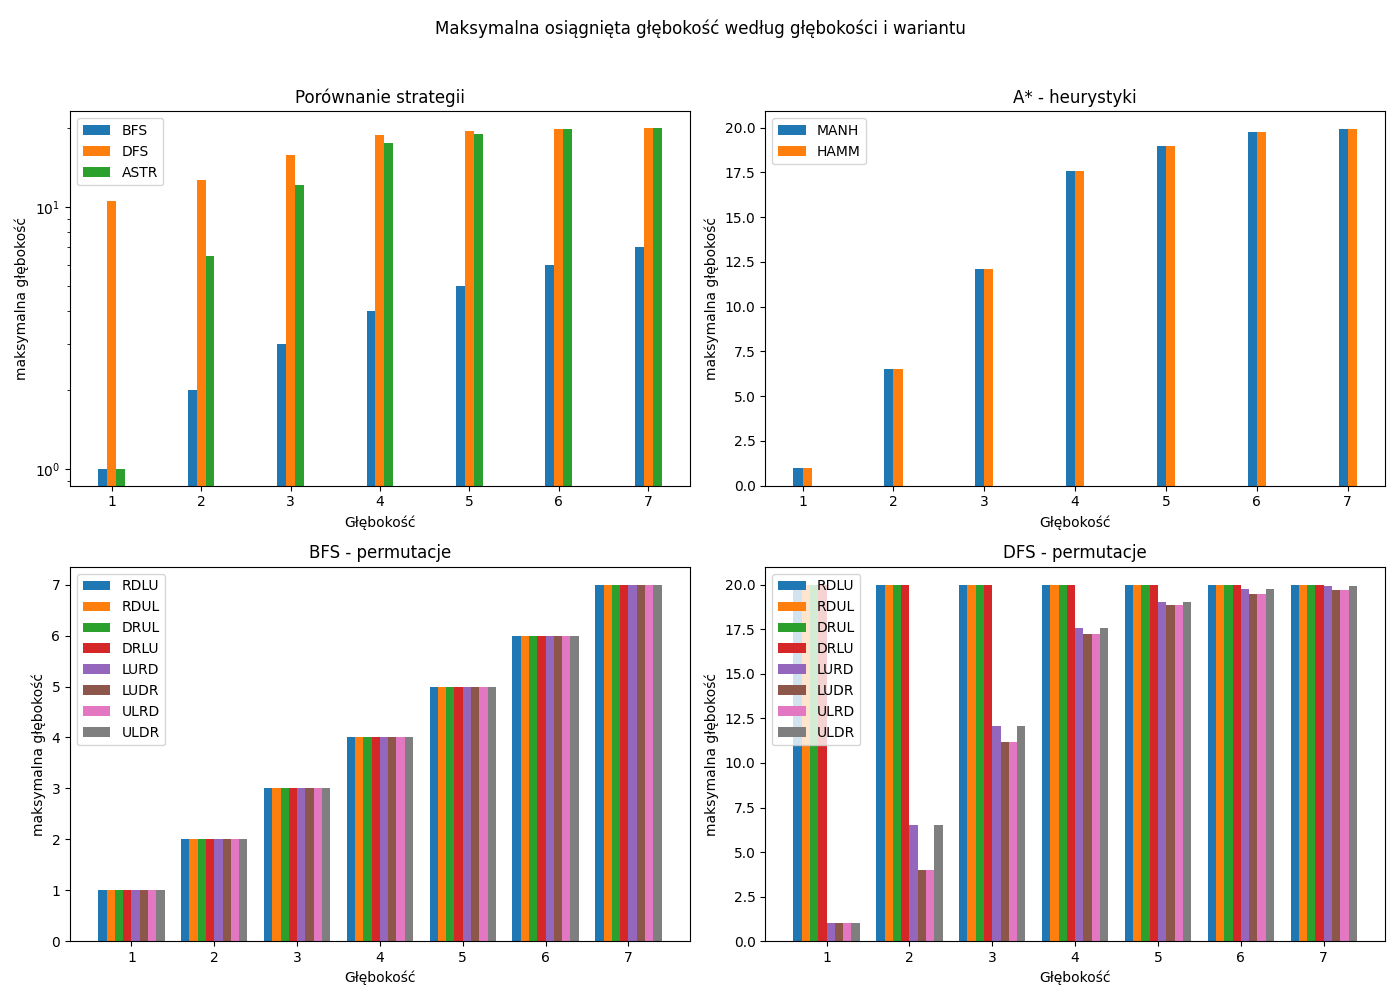
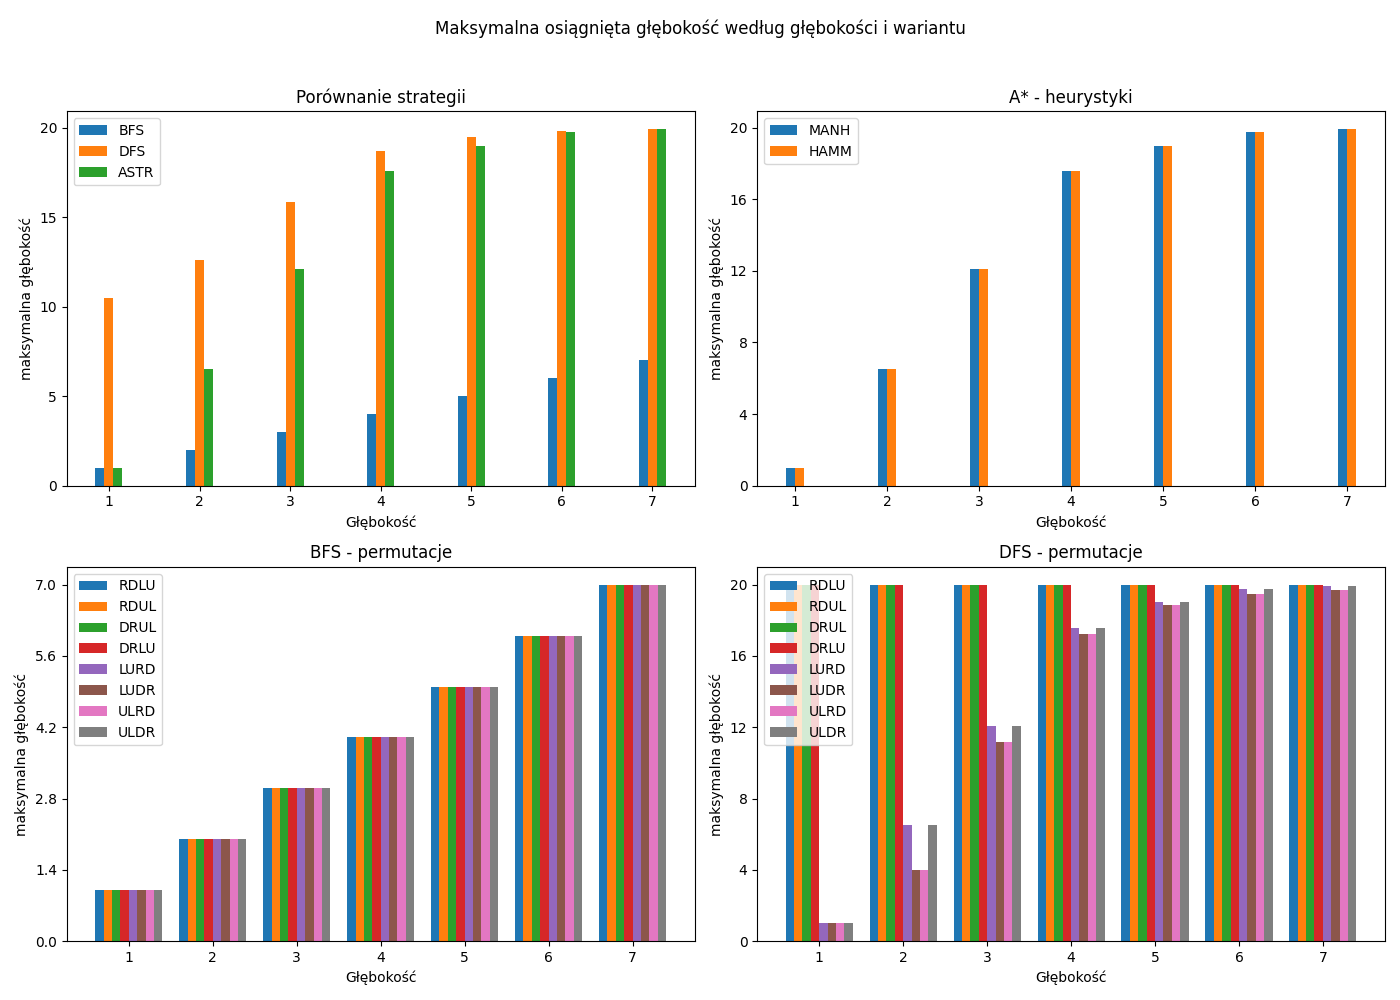
astar jeszcze nie działa

diff --git a/aStar.py b/aStar.py
@@ -24,10 +24,21 @@ def manhattan(board, goal, r, c):
                 dist += abs(i - goal_x) + abs(j - goal_y)
     return dist
 
+def choices(state, r, c):
+    newStates = []
+    for d in "LURD":
+        moving = state.move(d, r, c)
+        if moving is not None:
+            newStates.append(moving)
+    return newStates
+
 
 def solveAStar(startBoard, heuristic, node, info, r, c):
     startTime = time.time()
     goal = node.goal(r, c)
+    info.setMaxDepthRecursion(0)
+    visitedStates = set()
+    processedStates = 0
 
     if heuristic == "manh":
         heuristicFunc = manhattan
@@ -37,29 +48,65 @@ def solveAStar(startBoard, heuristic, node, info, r, c):
         raise ValueError("Invalid heuristic")
 
     queue = []
-    heapq.heappush(queue, (0, 0, "", node))  # (f(n), g(n), moves, state)
-
-    visitedStates = set()
-    processedStates = 0
+    heapq.heappush(queue, (0 + heuristicFunc(startBoard, goal, r, c), 0, startBoard, ""))
 
     while queue:
-        _, cost, path, board = heapq.heappop(queue)
+        f, cost, current, path = heapq.heappop(queue)
         processedStates += 1
 
-        if board.getBoard() == goal:
+        if len(current.getMoves()) > info.getMaxDepthRecursion():
+            info.setMaxDepthRecursion(len(current.getMoves()))
+
+        if current == goal:
             time1 = round((time.time() - startTime) * 1000, 3)
-            node.theEnd(len(visitedStates), processedStates, time1, len(board.getMoves()), info)
-            return board.getPath()
+            node.theEnd(current, len(visitedStates), processedStates, time1, len(current.getMoves()), info)
+            return current.getPath()
 
+        if tuple(current) in visitedStates:
+            continue
+        visitedStates.add(tuple(current))
 
-        for d in "LURD":
-            newNode = board.move(d, r, c)
-            if newNode is not None and tuple(map(tuple, newNode.getBoard())) not in visitedStates:
-                visitedStates.add(tuple(map(tuple, newNode.getBoard())))
-                newCost = cost + 1
-                hValue = heuristicFunc(newNode.getBoard(), goal, len(startBoard), len(startBoard[0]))
-                heapq.heappush(queue, (newCost + hValue, newCost, path + d, newNode))
+        for choice in choices(current, r, c):
+            if tuple(choice) not in visitedStates and tuple(choice) is not None:
+                heapq.heappush(queue, (cost + 1 + heuristicFunc(choice, goal, r, c), cost, choice, node.getPath() + "L"))
 
-    time1 = round((time.time() - startTime) * 1000, 3)
-    node.theEnd(startBoard, len(visitedStates), processedStates, time1, -1, info)
-    return "Nie znaleziono rozwiązania"
+    return None
+
+# def solveAStar(startBoard, heuristic, node, info, r, c):
+#     startTime = time.time()
+#     goal = node.goal(r, c)
+#
+#     if heuristic == "manh":
+#         heuristicFunc = manhattan
+#     elif heuristic == "hamm":
+#         heuristicFunc = hamming
+#     else:
+#         raise ValueError("Invalid heuristic")
+#
+#     queue = []
+#     heapq.heappush(queue, (0, 0, "", node))  # (f(n), g(n), moves, state)
+#
+#     visitedStates = set()
+#     processedStates = 0
+#
+#     while queue:
+#         _, cost, path, board = heapq.heappop(queue)
+#         processedStates += 1
+#
+#         if board.getBoard() == goal:
+#             time1 = round((time.time() - startTime) * 1000, 3)
+#             node.theEnd(len(visitedStates), processedStates, time1, len(board.getMoves()), info)
+#             return board.getPath()
+#
+#
+#         for d in "LURD":
+#             newNode = board.move(d, r, c)
+#             if newNode is not None and tuple(map(tuple, newNode.getBoard())) not in visitedStates:
+#                 visitedStates.add(tuple(map(tuple, newNode.getBoard())))
+#                 newCost = cost + 1
+#                 hValue = heuristicFunc(newNode.getBoard(), goal, len(startBoard), len(startBoard[0]))
+#                 heapq.heappush(queue, (newCost + hValue, newCost, path + d, newNode))
+#
+#     time1 = round((time.time() - startTime) * 1000, 3)
+#     node.theEnd(startBoard, len(visitedStates), processedStates, time1, -1, info)
+#     return "Nie znaleziono rozwiązania"

diff --git a/pliki.py b/pliki.py
@@ -32,40 +32,40 @@ def writeSolution(filename, moves):
         else:
             f.write(f"{len(moves)}\n{moves}\n")
 
-if len(sys.argv) != 6:
-    print("Użycie: program <strategia> <parametr> <plik_wejściowy> <plik_rozwiązania> <plik_statystyk>")
-    sys.exit(1)
-
-strategy = sys.argv[1]
-param = sys.argv[2]
-inputFile = sys.argv[3]
-solutionFile = sys.argv[4]
-statsFile = sys.argv[5]
-
-board, rows, cols = loadBoard(inputFile)
-startNode = n.node(board, "")
-info = i.info()
-
-if strategy == "bfs":
-    path = b.breadth_first_search(startNode, param, info, rows, cols)
-elif strategy == "dfs":
-    paht = d.depth_first_search(startNode, param, 20, info, rows, cols)
-elif strategy == "astr":
-    path = a.solveAStar(board, param, startNode, info, rows, cols)
-else:
-    print("Nieznana strategia:", strategy)
-    sys.exit(1)
-
-
-solutionLength = len(path)
-visited = info.getVisitedStates()
-processed = info.getProcessedStates()
-depth = info.getMaxDepthRecursion()
-time = info.getSearchingTime()
-
-writeSolution(solutionFile, path if path else -1)
-solutionLength = len(path) if path else -1
-writeStats(statsFile, solutionLength, visited, processed, depth, time)
+# if len(sys.argv) != 6:
+#     print("Użycie: program <strategia> <parametr> <plik_wejściowy> <plik_rozwiązania> <plik_statystyk>")
+#     sys.exit(1)
+#
+# strategy = sys.argv[1]
+# param = sys.argv[2]
+# inputFile = sys.argv[3]
+# solutionFile = sys.argv[4]
+# statsFile = sys.argv[5]
+#
+# board, rows, cols = loadBoard(inputFile)
+# startNode = n.node(board, "")
+# info = i.info()
+#
+# if strategy == "bfs":
+#     path = b.breadth_first_search(startNode, param, info, rows, cols)
+# elif strategy == "dfs":
+#     paht = d.depth_first_search(startNode, param, 20, info, rows, cols)
+# elif strategy == "astr":
+#     path = a.solveAStar(board, param, startNode, info, rows, cols)
+# else:
+#     print("Nieznana strategia:", strategy)
+#     sys.exit(1)
+#
+#
+# solutionLength = len(path)
+# visited = info.getVisitedStates()
+# processed = info.getProcessedStates()
+# depth = info.getMaxDepthRecursion()
+# time = info.getSearchingTime()
+#
+# writeSolution(solutionFile, path if path else -1)
+# solutionLength = len(path) if path else -1
+# writeStats(statsFile, solutionLength, visited, processed, depth, time)
 
 
 

diff --git a/wykresy.py b/wykresy.py
@@ -12,7 +12,7 @@ def plot_grouped_bars(grouped_data, metric_name, title, ylabel, filename):
 
     for i, (data_dict, variants, plot_title, subplot_idx) in enumerate(grouped_data):
         ax = axs[subplot_idx[0]][subplot_idx[1]]
-
+        values = 0
         depths = sorted(data_dict.keys())
         width = 0.1
         x = np.arange(len(depths))
@@ -31,9 +31,15 @@ def plot_grouped_bars(grouped_data, metric_name, title, ylabel, filename):
         ax.set_xticks(x + width * (len(variants) - 1) / 2)
         ax.set_xticklabels(depths)
         ax.legend()
-        if subplot_idx == (0,0) and (
-                metric_name == "searchTime" or "processedStates" or "visitedStates" or "maxDepthRecursion"):
+        print(f"{metric_name}, {max(values)}")
+
+        if subplot_idx == (0,0) and metric_name == "maxDepthRecursion":
+            ax.set_yticks(np.arange(0, 25, 5))
+        elif subplot_idx == (0,0) and metric_name == "searchTime":
             ax.set_yscale('log')
+            ax.set_yticks([1, 10, 100, 1000])
+        else:
+            ax.set_yticks(np.arange(0, max(values) + 1, abs(max(values) / 5)))
 
     plt.tight_layout(rect=(0, 0, 1, 0.96))
     os.makedirs("plots", exist_ok=True)
